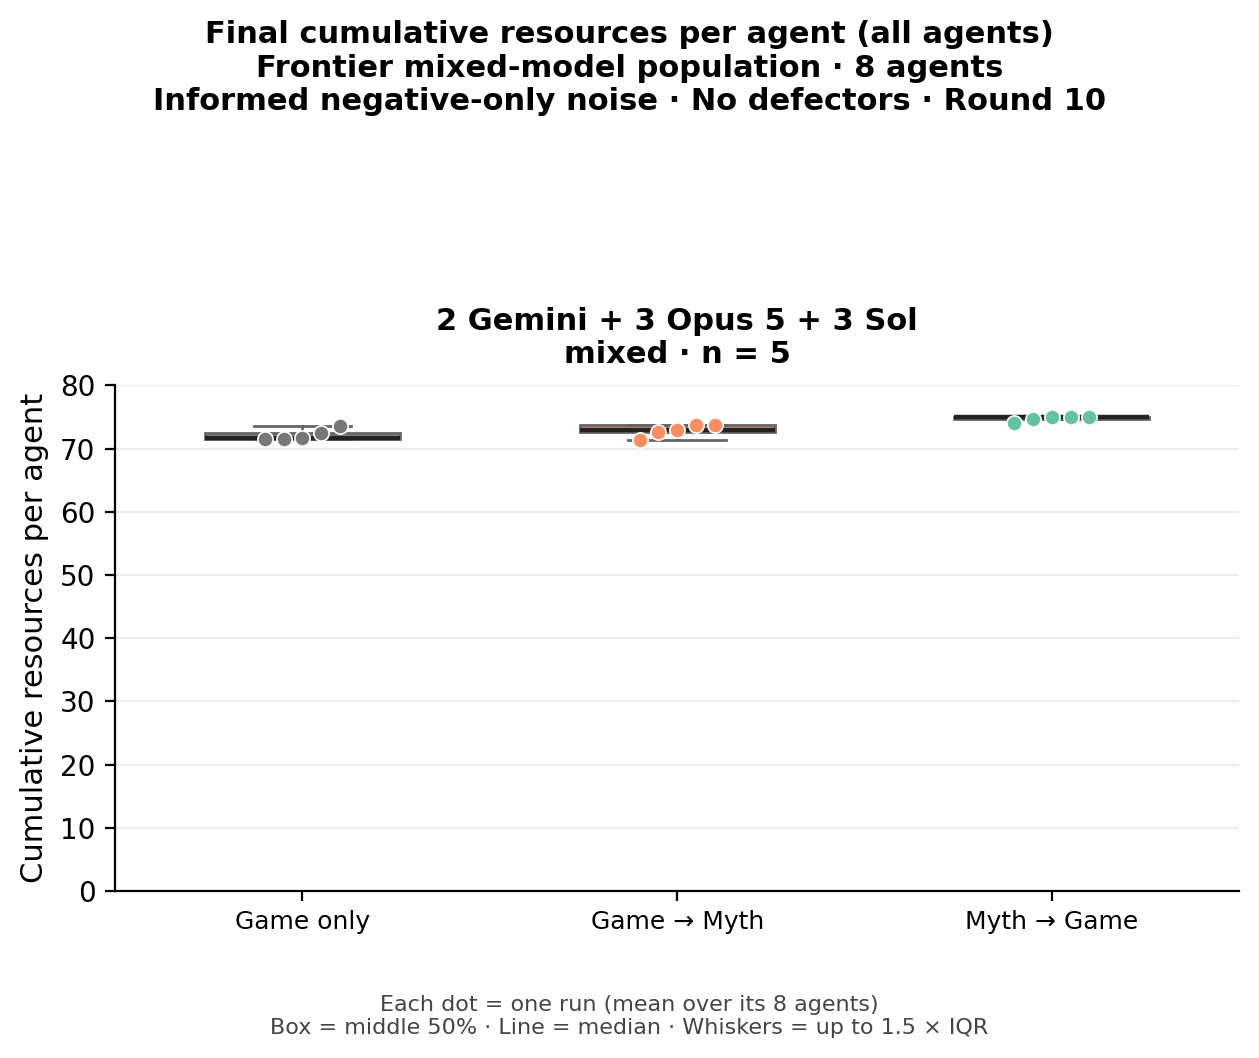
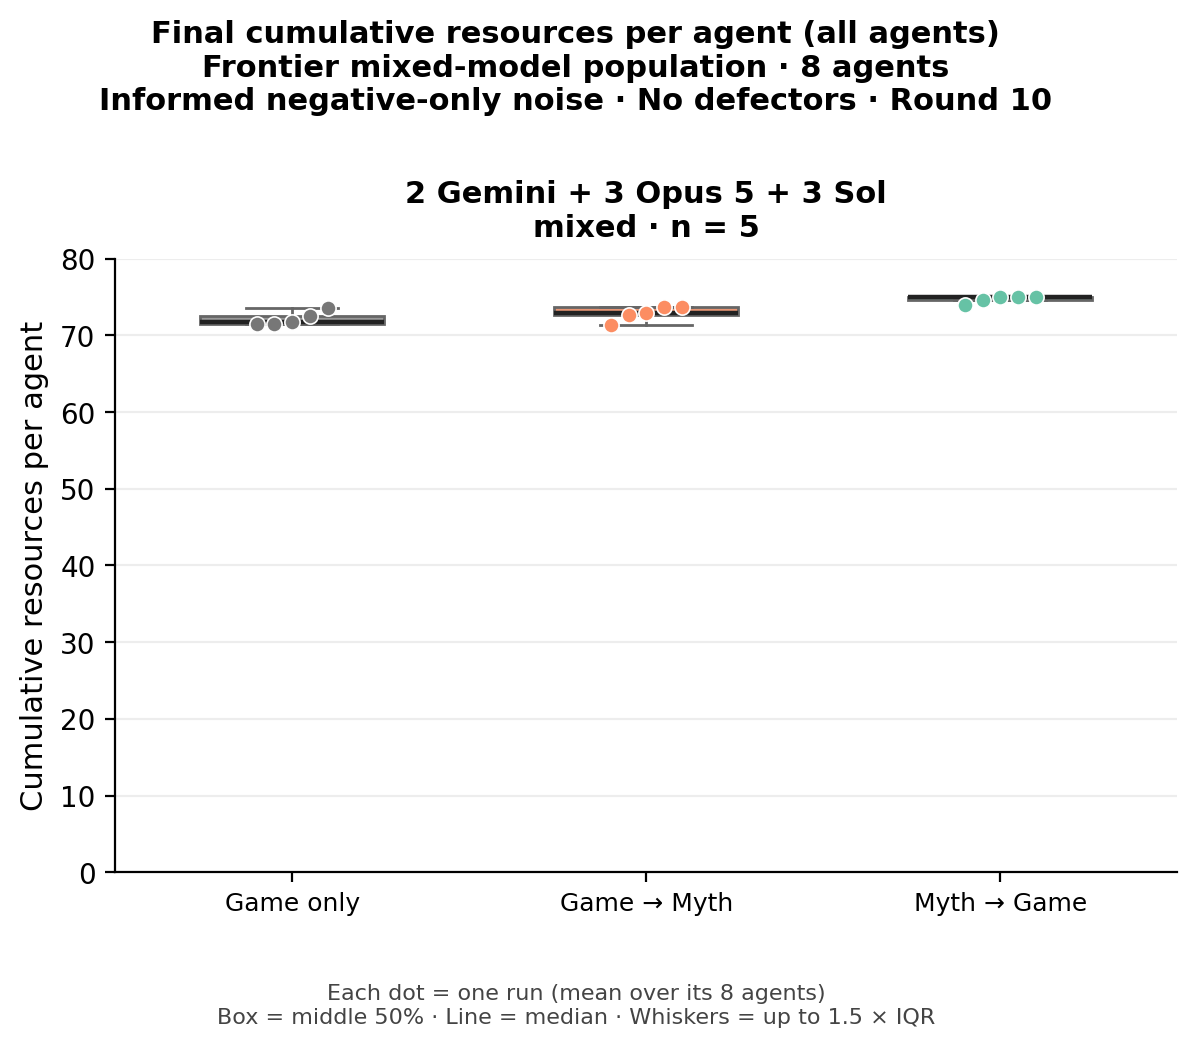
Remove the empty gap above the mixed-population panel

diff --git a/scripts/analyze_frontier_main_mixed_20260928.py b/scripts/analyze_frontier_main_mixed_20260928.py
@@ -144,10 +144,10 @@ def plot_populations(df):
     ax.set_title(f"2 Gemini + 3 Opus 5 + 3 Sol\nmixed · n = {n}", fontsize=11, fontweight="bold", pad=8)
     ax.set_ylabel("Cumulative resources per agent", fontsize=11)
     fig.suptitle("Final cumulative resources per agent (all agents)\nFrontier mixed-model population · 8 agents\n"
-                 "Informed negative-only noise · No defectors · Round 10", fontsize=11, fontweight="bold")
+                 "Informed negative-only noise · No defectors · Round 10", fontsize=11, fontweight="bold", y=.97)
     fig.text(.5, .005, "Each dot = one run (mean over its 8 agents)\nBox = middle 50% · Line = median · Whiskers = up to 1.5 × IQR",
              ha="center", fontsize=8, color="#444444")
-    fig.tight_layout(rect=(0, .07, 1, .86))
+    fig.subplots_adjust(left=.14, right=.97, bottom=.15, top=.74)
     fig.savefig(OUTPUT / "frontier_mixed_populations_resources_boxplots.png", dpi=200, bbox_inches="tight")
     plt.close(fig)
 
